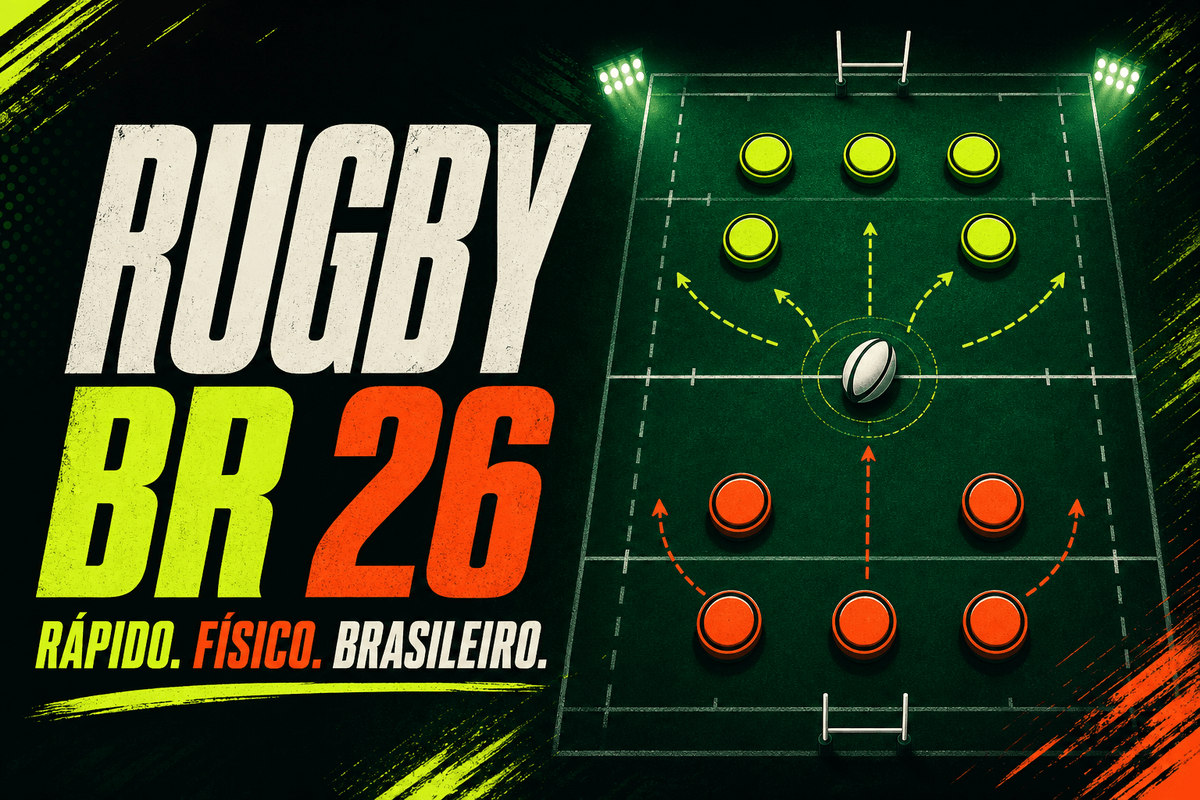
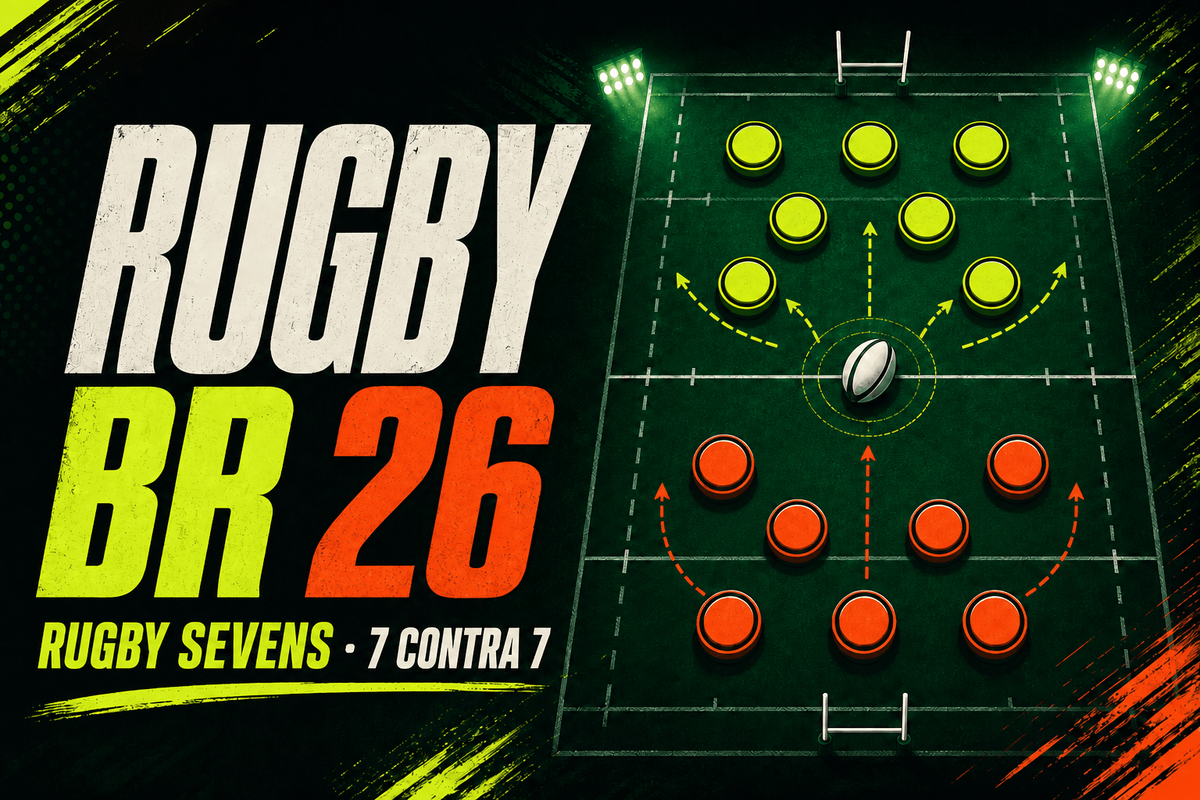
Convert matches to rugby sevens

diff --git a/app/rugby-game.tsx b/app/rugby-game.tsx
@@ -64,6 +64,8 @@ const TRY_LINE = 70;
 const CENTRE_Y = FIELD_H / 2;
 const PLAYER_RADIUS = 17;
 const MATCH_SECONDS = 120;
+const PLAYERS_PER_SIDE = 7;
+const MID_SLOT = Math.floor(PLAYERS_PER_SIDE / 2);
 
 const TEAMS: Team[] = [
   { id: "farrapos", name: "Farrapos", state: "RS", division: 1, group: "Grupo A", primary: "#7d1731", secondary: "#f2c84b", short: "FAR" },
@@ -108,22 +110,22 @@ function formatClock(seconds: number) {
 }
 
 function makePlayers(): Player[] {
-  const lanes = [140, 225, 310, 395, 480];
+  const lanes = [100, 170, 240, 310, 380, 450, 520];
   return [
     ...lanes.map((y, slot) => ({
       id: slot,
       side: 0 as const,
       slot,
-      x: 265 - Math.abs(2 - slot) * 18,
+      x: 255 - Math.abs(MID_SLOT - slot) * 14,
       y,
       stun: 0,
       tackleLock: 0,
     })),
     ...lanes.map((y, slot) => ({
-      id: slot + 5,
+      id: slot + PLAYERS_PER_SIDE,
       side: 1 as const,
       slot,
-      x: 835 + Math.abs(2 - slot) * 18,
+      x: 845 + Math.abs(MID_SLOT - slot) * 14,
       y,
       stun: 0,
       tackleLock: 0,
@@ -133,9 +135,10 @@ function makePlayers(): Player[] {
 
 function freshMatch(): Match {
   const players = makePlayers();
+  const firstCarrier = players[MID_SLOT];
   return {
     players,
-    ball: { x: players[2].x, y: players[2].y, vx: 0, vy: 0, owner: players[2], target: null, air: 0 },
+    ball: { x: firstCarrier.x, y: firstCarrier.y, vx: 0, vy: 0, owner: firstCarrier, target: null, air: 0 },
     score: [0, 0],
     seconds: MATCH_SECONDS,
     running: true,
@@ -398,7 +401,10 @@ export function RugbyGame() {
     (match: Match, possession: 0 | 1) => {
       const reset = makePlayers();
       match.players.splice(0, match.players.length, ...reset);
-      const owner = possession === 0 ? match.players[2] : match.players[7];
+      const owner =
+        possession === 0
+          ? match.players[MID_SLOT]
+          : match.players[PLAYERS_PER_SIDE + MID_SLOT];
       match.ball = { x: owner.x, y: owner.y, vx: 0, vy: 0, owner, target: null, air: 0 };
       match.kickoff = 1.15;
       match.actionLock = 0.4;
@@ -564,12 +570,12 @@ export function RugbyGame() {
       homePlayers.forEach((player) => {
         if (player === controlled) return;
         if (ballOwner?.side === 0) {
-          const laneOffset = (player.slot - 2) * 72;
+          const laneOffset = (player.slot - MID_SLOT) * 57;
           moveToward(player, ballOwner.x - 82 - Math.abs(player.slot - ballOwner.slot) * 22, ballOwner.y + laneOffset, 142);
         } else {
           const target = ballOwner ?? match.ball;
           const chaseRank = [...homePlayers].sort((a, b) => distance(a, target) - distance(b, target)).indexOf(player);
-          moveToward(player, target.x + chaseRank * 28, target.y + (player.slot - 2) * 34, chaseRank < 2 ? 168 : 132);
+          moveToward(player, target.x + chaseRank * 25, target.y + (player.slot - MID_SLOT) * 27, chaseRank < 2 ? 168 : 132);
         }
       });
 
@@ -584,12 +590,12 @@ export function RugbyGame() {
               player.y += clamp(dy, -110 * dt, 110 * dt);
             }
           } else {
-            moveToward(player, ballOwner.x + 90 + Math.abs(player.slot - ballOwner.slot) * 24, ballOwner.y + (player.slot - 2) * 65, 140);
+            moveToward(player, ballOwner.x + 90 + Math.abs(player.slot - ballOwner.slot) * 22, ballOwner.y + (player.slot - MID_SLOT) * 52, 140);
           }
         } else {
           const target = ballOwner ?? match.ball;
           const rank = [...awayPlayers].sort((a, b) => distance(a, target) - distance(b, target)).indexOf(player);
-          moveToward(player, target.x - rank * 30, target.y + (player.slot - 2) * 31, rank < 2 ? 183 : 140);
+          moveToward(player, target.x - rank * 26, target.y + (player.slot - MID_SLOT) * 26, rank < 2 ? 183 : 140);
         }
       });
 
@@ -835,7 +841,7 @@ export function RugbyGame() {
         <>
           <section className="hero">
             <div className="hero-copy">
-              <p className="eyebrow">PROTÓTIPO JOGÁVEL · 5 CONTRA 5</p>
+              <p className="eyebrow">RUGBY SEVENS · 7 CONTRA 7</p>
               <h1>Do clube local<br />até o <em>try.</em></h1>
               <p className="hero-intro">
                 Escolha um dos 24 clubes nacionais de 2026 e entre em campo numa partida
@@ -858,10 +864,10 @@ export function RugbyGame() {
                 <span>FÍSICO</span>
                 <strong>BRASILEIRO</strong>
               </div>
-              {[0, 1, 2, 3, 4].map((slot) => (
+              {[0, 1, 2, 3, 4, 5, 6].map((slot) => (
                 <i key={`home-${slot}`} className={`tactical-dot tactical-dot--home tactical-dot--${slot}`} />
               ))}
-              {[0, 1, 2, 3, 4].map((slot) => (
+              {[0, 1, 2, 3, 4, 5, 6].map((slot) => (
                 <i key={`away-${slot}`} className={`tactical-dot tactical-dot--away tactical-dot--${slot}`} />
               ))}
               <span className="tactical-ball" />

diff --git a/app/globals.css b/app/globals.css
@@ -309,13 +309,16 @@ select:focus-visible {
   border-color: var(--acid);
   left: 67%;
 }
-.tactical-dot--0 { top: 18%; }
-.tactical-dot--1 { top: 33%; transform: translateX(-35px); }
-.tactical-dot--2 { top: 48%; transform: translateX(8px); }
-.tactical-dot--3 { top: 65%; transform: translateX(-30px); }
-.tactical-dot--4 { top: 79%; }
+.tactical-dot--0 { top: 11%; }
+.tactical-dot--1 { top: 24%; transform: translateX(-35px); }
+.tactical-dot--2 { top: 37%; transform: translateX(8px); }
+.tactical-dot--3 { top: 49%; transform: translateX(-30px); }
+.tactical-dot--4 { top: 62%; }
+.tactical-dot--5 { top: 75%; transform: translateX(-35px); }
+.tactical-dot--6 { top: 87%; transform: translateX(8px); }
 .tactical-dot--away.tactical-dot--1,
-.tactical-dot--away.tactical-dot--3 { transform: translateX(30px); }
+.tactical-dot--away.tactical-dot--3,
+.tactical-dot--away.tactical-dot--5 { transform: translateX(30px); }
 
 .tactical-ball {
   background: #e7d1aa;

diff --git a/app/page.tsx b/app/page.tsx
@@ -2,9 +2,9 @@ import type { Metadata } from "next";
 import { RugbyGame } from "./rugby-game";
 
 export const metadata: Metadata = {
-  title: { absolute: "Rugby BR 26 — protótipo 2D" },
+  title: { absolute: "Rugby BR 26 — rugby sevens 2D" },
   description:
-    "Rugby arcade 2D leve com os 24 clubes das duas divisões nacionais de 2026.",
+    "Rugby sevens arcade 2D, 7 contra 7, com os 24 clubes das duas divisões nacionais de 2026.",
 };
 
 export default function Home() {

diff --git a/app/layout.tsx b/app/layout.tsx
@@ -13,7 +13,7 @@ export async function generateMetadata(): Promise<Metadata> {
     (host.startsWith("localhost") ? "http" : "https");
   const baseUrl = `${protocol}://${host}`;
   const description =
-    "Rugby arcade 2D leve com os 24 clubes das duas divisões nacionais de 2026.";
+    "Rugby sevens arcade 2D, 7 contra 7, com os 24 clubes das duas divisões nacionais de 2026.";
 
   return {
     metadataBase: new URL(baseUrl),

diff --git a/public/sw.js b/public/sw.js
@@ -1,4 +1,4 @@
-const CACHE = "rugby-br-26-v1";
+const CACHE = "rugby-br-26-v2-sevens";
 const CORE = ["/", "/manifest.webmanifest", "/icon-192.png", "/icon-512.png"];
 
 self.addEventListener("install", (event) => {
